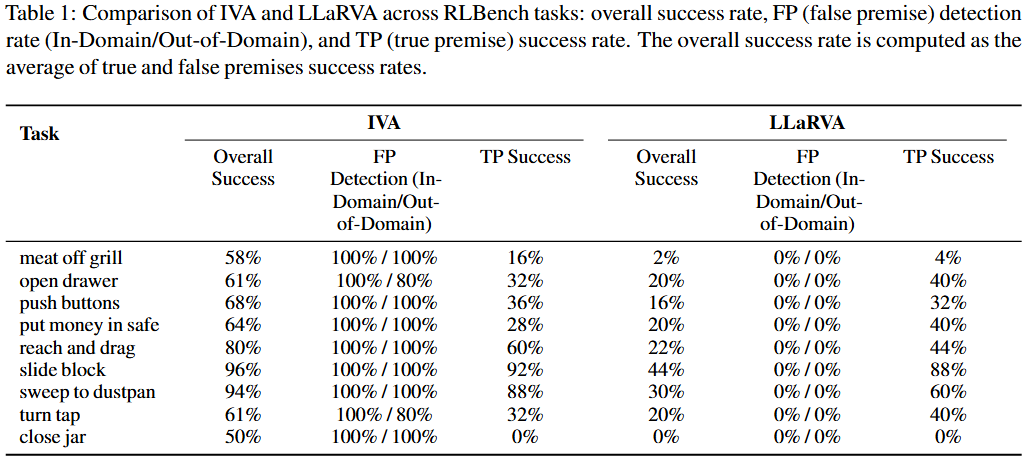
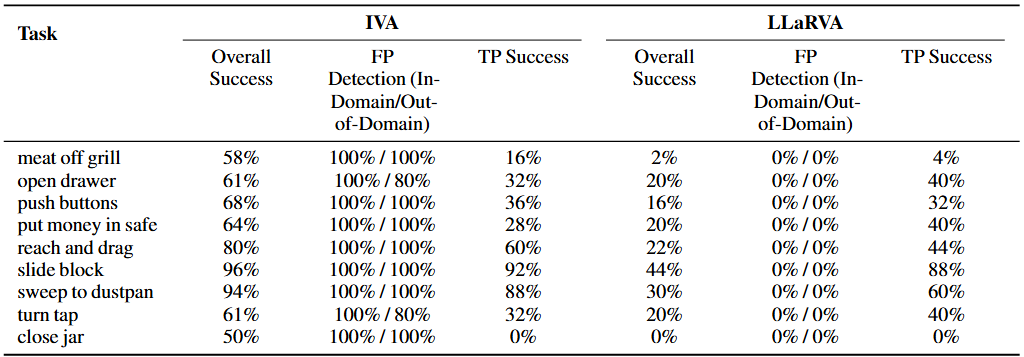
add content

Changed region(s): [[0.0, 0.0, 1.0, 1.0], [0.0, 0.2773, 0.0625, 0.3081]]

diff --git a/index.html b/index.html
@@ -2,89 +2,69 @@
 <html lang="en">
 <head>
   <meta charset="utf-8" />
-  <title>Do What? Teaching Vision-Language-Action Models to Reject the Impossible  </title>
+  <title>IVA: Instruct-Verify-and-Act</title>
 
-  <!-- Meta / SEO -->
   <meta name="viewport" content="width=device-width, initial-scale=1" />
   <meta name="description" content="IVA teaches Vision-Language-Action models to detect false-premise instructions, clarify them in natural language, and act safely." />
-  <meta name="keywords" content="Vision-Language-Action, Robotics, False Premise, Instruction Following, Human-Robot Interaction" />
   <link rel="canonical" href="https://iva-vla.github.io/" />
 
-  <!-- Open Graph / Twitter -->
+  <!-- Social -->
   <meta property="og:title" content="IVA: Instruct-Verify-and-Act" />
-  <meta property="og:description" content="Detect the impossible. Clarify intent. Act safely. IVA brings false-premise reasoning to VLA models." />
+  <meta property="og:description" content="Detect the impossible. Clarify intent. Act safely." />
   <meta property="og:url" content="https://iva-vla.github.io/" />
-  <!-- Use Figure 1 as the share image -->
   <meta property="og:image" content="static/images/fig1_teaser.png" />
   <meta property="og:image:width" content="1200" />
   <meta property="og:image:height" content="630" />
   <meta name="twitter:card" content="summary_large_image" />
-  <meta name="twitter:title" content="IVA: Teaching VLAs to Reject the Impossible" />
-  <meta name="twitter:description" content="IVA detects false-premise instructions, asks clarifying questions, and proposes valid alternatives." />
+  <meta name="twitter:title" content="IVA: Instruct-Verify-and-Act" />
+  <meta name="twitter:description" content="Detect the impossible. Clarify intent. Act safely." />
   <meta name="twitter:image" content="static/images/fig1_teaser.png" />
-
-  <!-- Favicon & Fonts -->
-  <link rel="icon" type="image/x-icon" href="static/images/favicon.ico" />
-  <link href="https://fonts.googleapis.com/css2?family=Inter:wght@400;600;700&family=Castoro:wght@400;700&display=swap" rel="stylesheet" />
 
   <!-- Bulma & Custom -->
   <link rel="stylesheet" href="static/css/bulma.min.css" />
   <link rel="stylesheet" href="static/css/index.css" />
 
   <style>
-    :root { --brand: #1f6feb; }
+    :root { --brand:#1f6feb; }
     body { font-family: Inter, system-ui, -apple-system, Segoe UI, Roboto, "Helvetica Neue", Arial, "Noto Sans", sans-serif; }
-    .hero.is-dark-gradient {
+
+    /* ---- keep title on ONE line ---- */
+    .title-nowrap {
+      white-space: nowrap;
+      font-size: clamp(28px, 5.5vw, 56px); /* auto-shrink before wrapping */
+      line-height: 1.05;
+      letter-spacing: -0.02em;
+    }
+
+    .hero.is-dark {
       background: radial-gradient(1100px 600px at 10% 10%, rgba(31,111,235,0.10), transparent 45%),
                   linear-gradient(180deg, #0b1220 0%, #0b1220 60%, #0d1326 100%);
       color: #fff;
     }
     .hero .title, .hero .subtitle { color:#fff; }
-    .teaser {
-      width: 100%; border-radius: 16px; overflow: hidden;
-      border: 1px solid rgba(255,255,255,.18); box-shadow: 0 8px 24px rgba(0,0,0,.35);
-      background:#0f162a;
-    }
-    .badges .button { margin: .25rem .35rem; }
-    figure img { width:100%; border-radius: 12px; }
+    .teaser { width:100%; border-radius:16px; border:1px solid rgba(255,255,255,.18); box-shadow:0 8px 24px rgba(0,0,0,.35); background:#0f162a; }
+    .badges .button { margin:.25rem .35rem; }
+    figure img { width:100%; border-radius:12px; }
     figcaption { color:#6b7280; text-align:center; margin-top:.4rem; }
-    .author-block a { text-decoration: none; }
+    .author-block a { text-decoration:none; }
     .muted { color:#6b7280; }
-    pre code { white-space: pre-wrap; }
+    .kv { margin: .5rem 0 0 0; }
+    .kv b { color:#111827; }
+    .content ul { margin-top: .4rem; }
   </style>
-
-  <!-- Schema.org -->
-  <script type="application/ld+json">
-  {
-    "@context":"https://schema.org",
-    "@type":"ScholarlyArticle",
-    "name":"Do What? Teaching Vision-Language-Action Models to Reject the Impossible",
-    "author":[
-      {"@type":"Person","name":"Wen-Han Hsieh"},
-      {"@type":"Person","name":"Elvis Hsieh"},
-      {"@type":"Person","name":"Dantong Niu"},
-      {"@type":"Person","name":"Trevor Darrell"},
-      {"@type":"Person","name":"Roei Herzig"},
-      {"@type":"Person","name":"David M. Chan"}
-    ],
-    "url":"https://arxiv.org/abs/2508.16292",
-    "inLanguage":"en"
-  }
-  </script>
 </head>
 
 <body>
-  <!-- HERO with Figure 1 teaser -->
-  <section class="hero is-dark-gradient">
+  <!-- HERO (Figure 1 as teaser) -->
+  <section class="hero is-dark">
     <div class="hero-body">
       <div class="container is-max-desktop">
         <div class="columns is-vcentered is-variable is-6">
           <div class="column is-5">
-            <!-- Figure 1 -->
             <img class="teaser" src="static/images/fig1_teaser.png" alt="Figure 1: IVA detects a false-premise instruction and clarifies it." />
           </div>
           <div class="column">
-            <h1 class="title is-1">IVA: Instruct-Verify-and-Act</h1>
+            <h1 class="title title-nowrap">IVA: Instruct-Verify-and-Act</h1>
             <p class="subtitle is-4">Teaching Vision-Language-Action Models to Reject the Impossible</p>
 
             <div class="is-size-5 publication-authors">
@@ -116,8 +96,32 @@
         <p>
           IVA is a unified framework for Vision-Language-Action models that <em>detects</em> when an instruction is unfulfillable (false premise),
           <em>clarifies or corrects</em> it in natural language, and then <em>acts safely</em>. Trained with paired true- and false-premise instructions,
-          IVA improves false-premise handling while maintaining strong true-premise task performance. See the paper for details.
+          IVA improves false-premise handling while maintaining strong true-premise task performance.
         </p>
+      </div>
+    </div>
+  </section>
+
+  <!-- Method (paper-grounded) -->
+  <section class="section">
+    <div class="container is-max-desktop">
+      <h2 class="title is-4">Method</h2>
+      <div class="content">
+        <ul>
+          <li><b>End-to-end instruction tuning</b> on a unified dataset; unlike LLaRVA’s two-stage pipeline, IVA trains in one stage for action prediction, FP detection, and language correction. :contentReference[oaicite:0]{index=0}</li>
+          <li><b>Model I/O</b>: input is the front camera plus the previous 5 joint positions; output predicts a 2D visual trace and the next-step action as an 8D vector (7 joint velocities + binary gripper). :contentReference[oaicite:1]{index=1}</li>
+          <li><b>Frozen encoders + LoRA decoder</b>: vision & language encoders are frozen; the auto-regressive transformer decoder is fine-tuned with LoRA. </li>
+          <li><b>Training mix</b>: ~800 episodes per task; ~65% In-Domain FP injected at 10% of steps and ~20% Out-of-Domain FP; remaining are true-premise.  </li>
+        </ul>
+
+        <h3 class="title is-5" style="margin-top:1rem;">Evaluation Procedure</h3>
+        <ul>
+          <li><b>(1) Detection</b>: classify the response as Accept (TP) or Clarify/Refuse (FP); score per step, then average. </li>
+          <li><b>(2) Execution</b>: if Accept, execute predicted 8D action sequence; RLBench success detector judges success/failure. </li>
+          <li><b>(3) Overall</b>: average Detection + Execution across 225 episodes (25 × 9 tasks). </li>
+        </ul>
+
+        <p class="kv"><b>Setup:</b> 9 RLBench tasks, 25 episodes each, randomized object poses; each episode paired with a true or false-premise prompt. </p>
       </div>
     </div>
   </section>
@@ -127,17 +131,25 @@
     <div class="container is-max-desktop">
       <h2 class="title is-4">Results</h2>
 
-      <!-- Table 1 image -->
+      <div class="content">
+        <ul>
+          <li><b>In-Domain FP detection: 100%</b> (perfect) across tasks. </li>
+          <li><b>Gains vs baseline</b>: FP detection accuracy improves by <b>+97.56%</b>; successful responses in FP scenarios increase by <b>+50.78%</b>. </li>
+          <li><b>Full per-task comparison</b> vs LLaRVA shown in Table 1. </li>
+        </ul>
+      </div>
+
+      <!-- Table 1 (paper image) -->
       <figure class="image">
         <img src="static/images/table1_results.png" alt="Table 1: Per-task comparison of IVA vs. LLaRVA on RLBench tasks." />
-        <figcaption>Table 1: IVA vs. LLaRVA across 9 RLBench tasks (Overall Success, FP Detection In/Out, TP Success).</figcaption>
+        <figcaption>Table 1: IVA vs. LLaRVA across 9 RLBench tasks (Overall Success, FP Detection In/Out, TP Success). </figcaption>
       </figure>
 
-      <!-- Figure C.2 image -->
-      <h3 class="title is-5" style="margin-top:1.5rem;">Qualitative Examples (Appendix)</h3>
+      <!-- Figure C.2 (paper image) -->
+      <h3 class="title is-5" style="margin-top:1.25rem;">Qualitative Examples (Appendix)</h3>
       <figure class="image">
         <img src="static/images/figC2_tasks.png" alt="Figure C.2: Qualitative examples across 9 RLBench tasks." />
-        <figcaption>Figure C.2: Qualitative examples of the 9 evaluated tasks.</figcaption>
+        <figcaption>Figure C.2: Qualitative examples of the 9 evaluated tasks. :contentReference[oaicite:13]{index=13}</figcaption>
       </figure>
     </div>
   </section>
